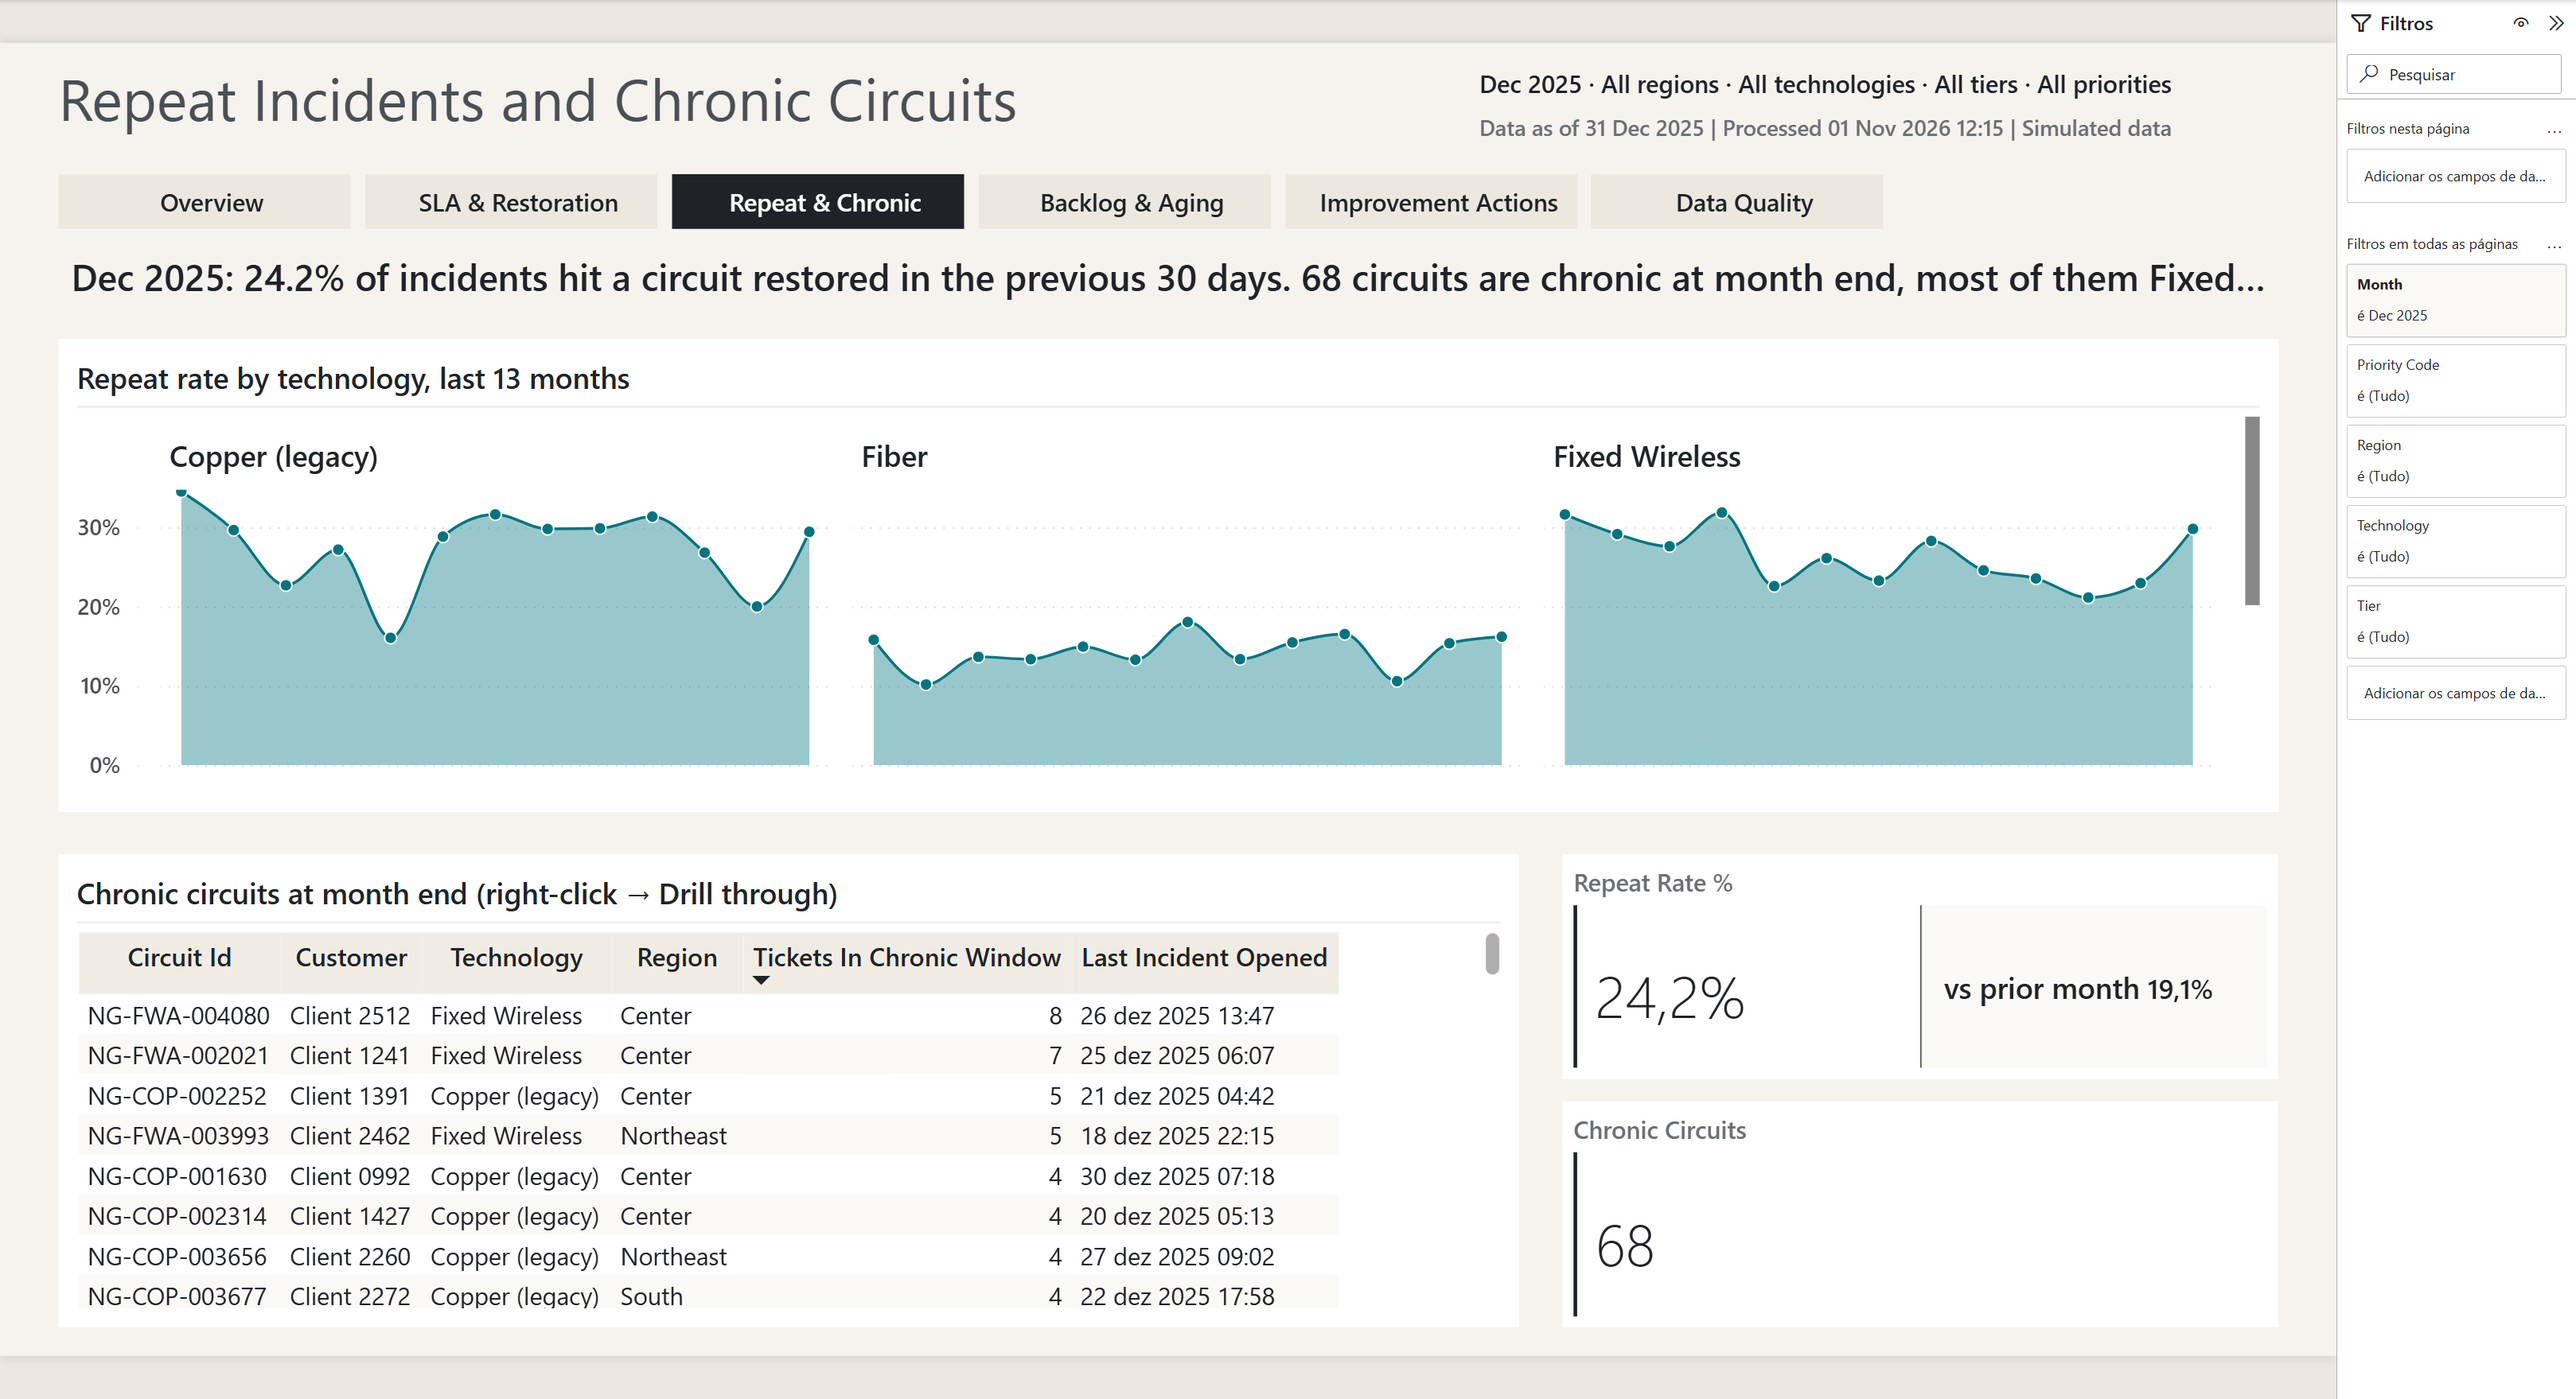
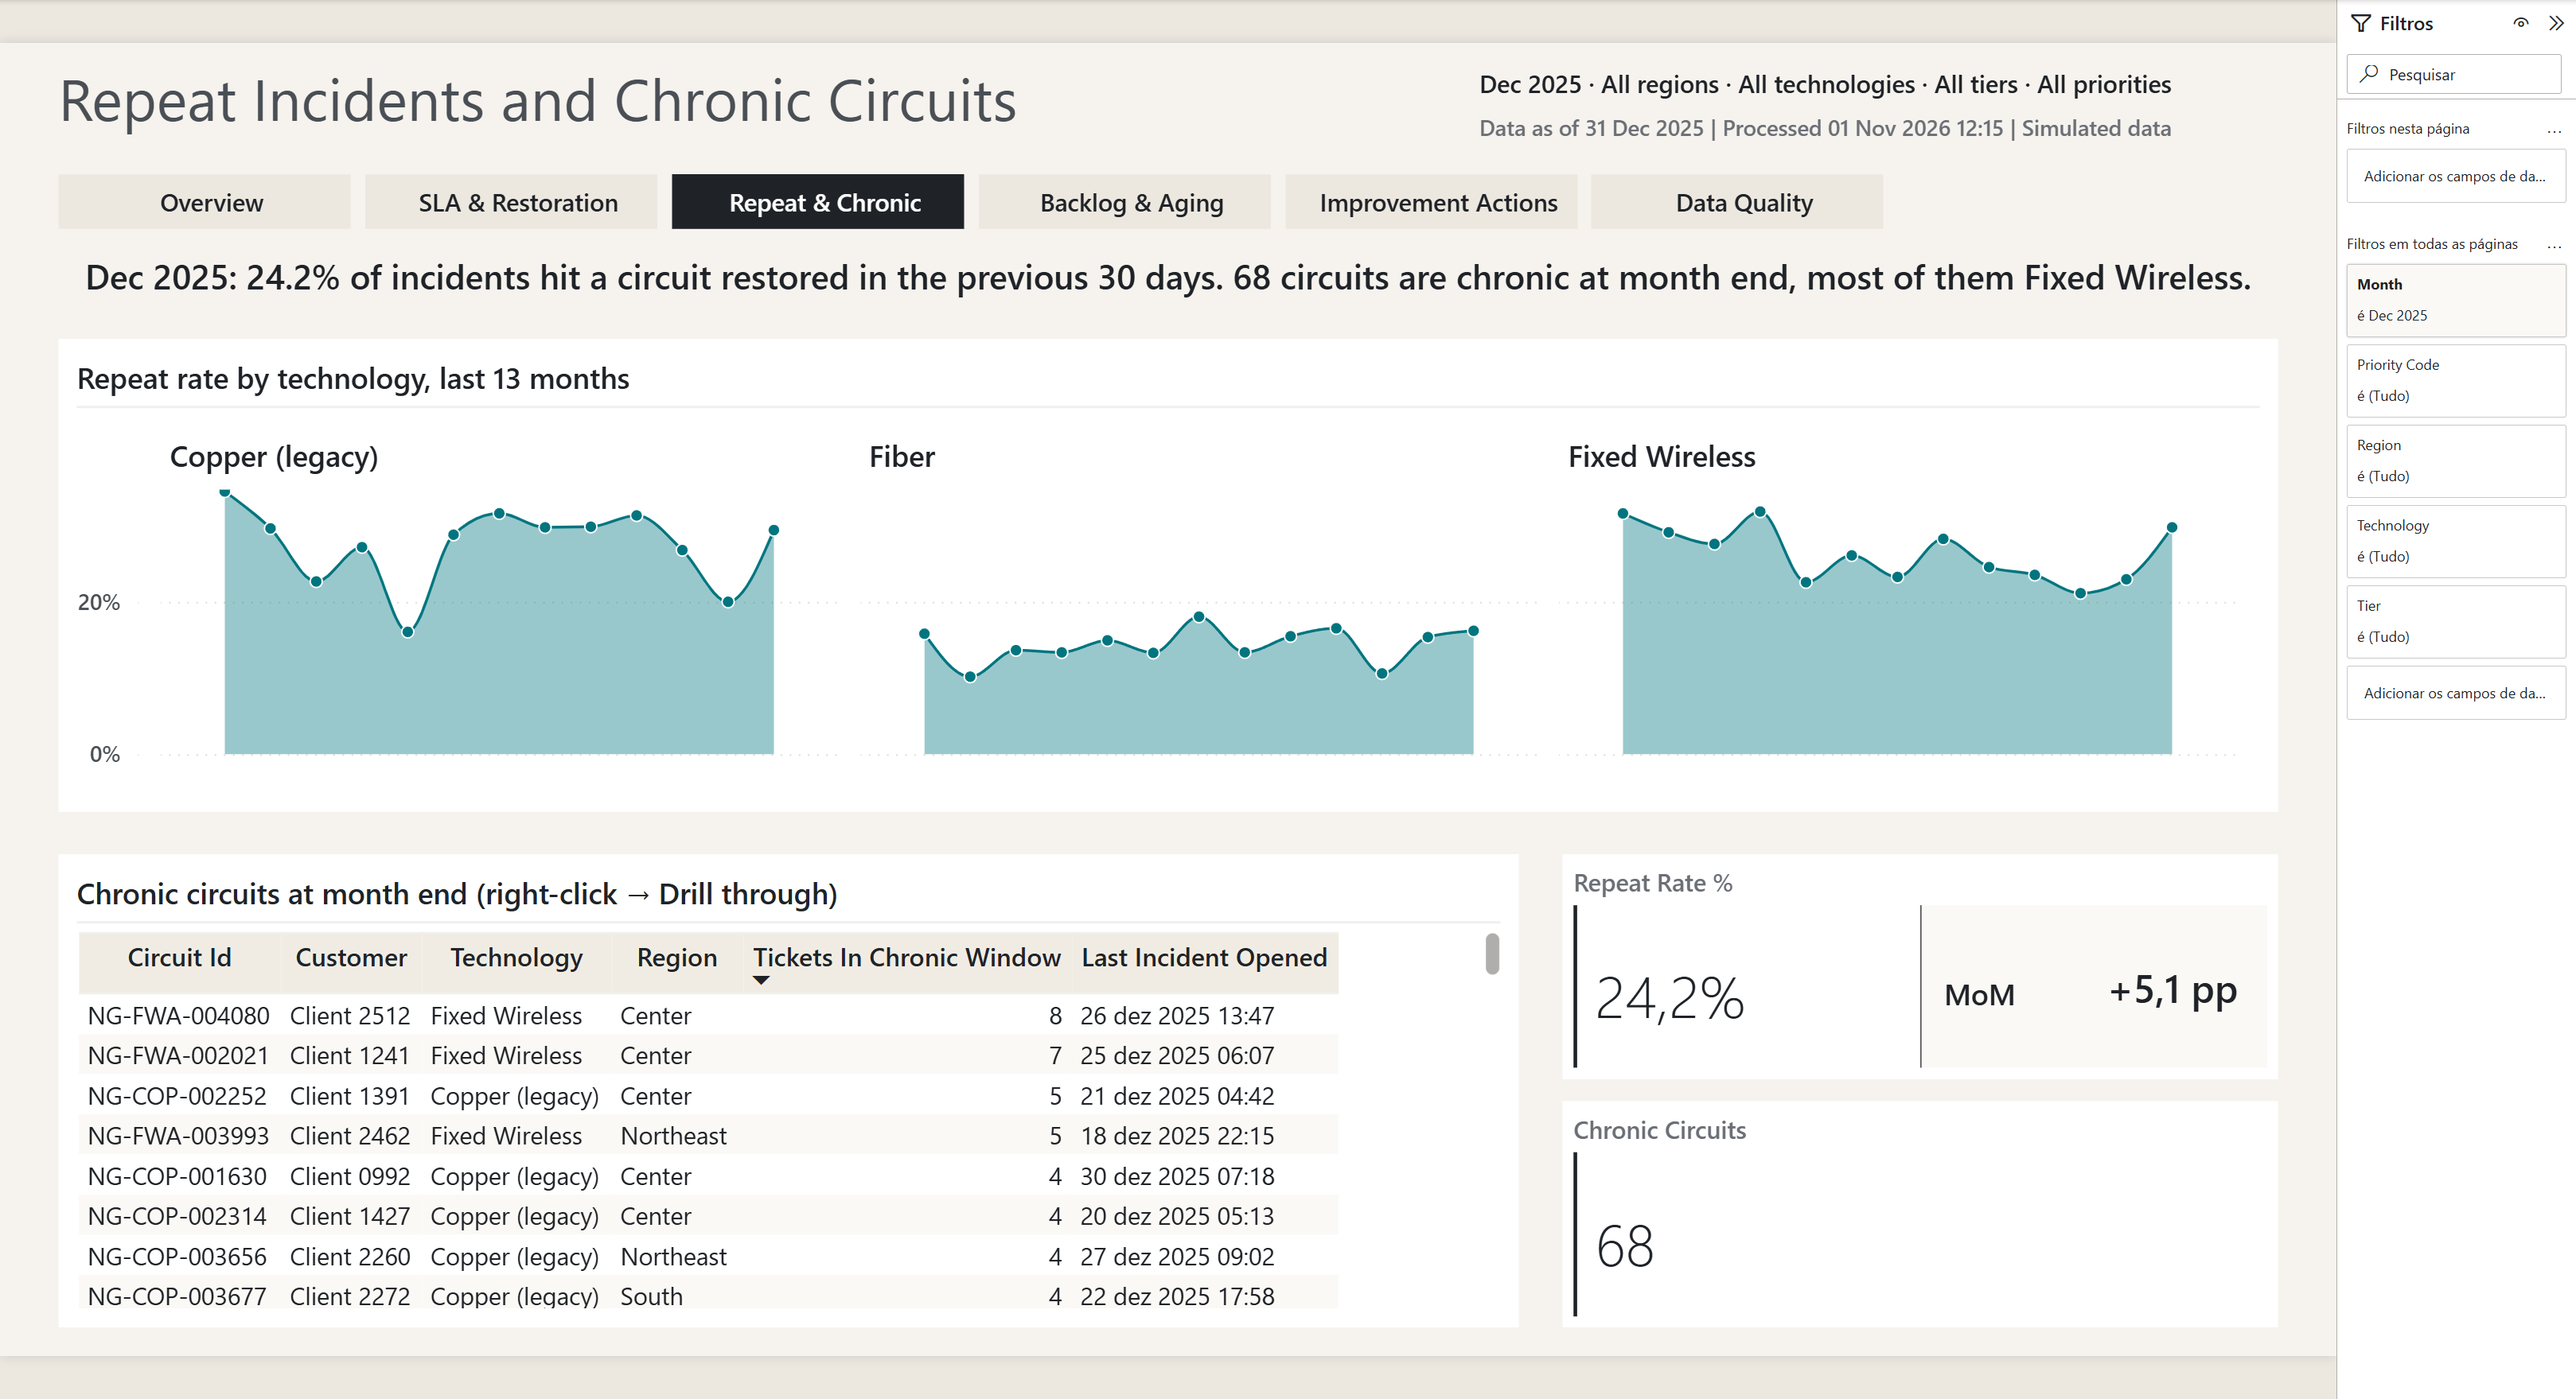
Editorial: tabular MoM reference on cards, final screenshots, docs

diff --git a/docs/design/DESIGN_REPERTOIRE.md b/docs/design/DESIGN_REPERTOIRE.md
@@ -116,10 +116,12 @@ Taken from each report open in Power BI Desktop after its data was refreshed:
   their reference label, but not coloured: `pbir` writes conditional formatting on new cards with a generic
   selector that Power BI ignores (tested on the reference value, the detail line and the accent bar), and the
   project rules forbid editing the JSON by hand. The sign carries the direction; the colour measures
-  (`<KPI> MoM Color`) are ready. Editorial cards still show the prior-month value.
-- Editorial: the small multiples (SLA by region, repeat rate by technology) still show a thin horizontal scroll
-  bar per panel. Midnight fixed it with a continuous axis on `Trend Month Index` (labels hidden); the same
-  change applies to Editorial.
+  (`<KPI> MoM Color`) are ready. The same applies to Editorial.
+
+### Editorial refinement (second round)
+KPI cards with the month-over-month change in a tabular reference label (`MoM −0,3 pp`), short month labels on
+the 13-month columns, small multiples on a continuous month axis (no scroll bars) without the Unknown member,
+headlines that fit, data quality table without horizontal scroll.
 
 ### Midnight refinement (second round)
 Month-over-month change on the KPI cards, short month labels (`Dec 24`) on every 13-month axis, brand block on
